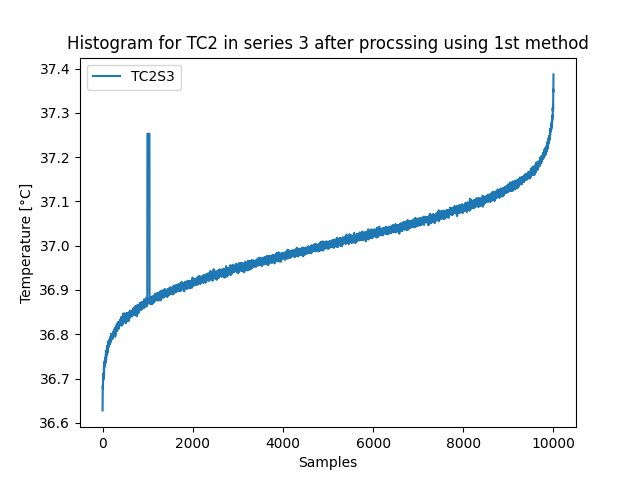
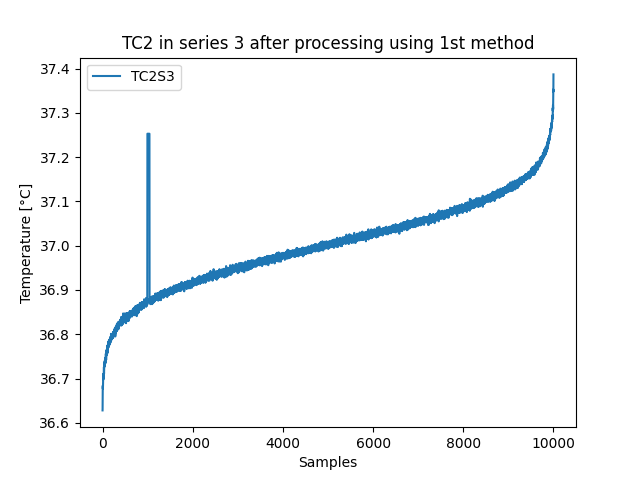
feat: add frequency analysis

Changed region(s): [[0.0938, 0.0625, 0.9375, 0.125]]

diff --git a/main.py b/main.py
@@ -1,5 +1,7 @@
+import numpy as np
 import pandas as pd
 import matplotlib.pyplot as plt
+from scipy.stats import norm
 
 # Load the CSV file into a DataFrame
 df = pd.read_csv('data/data.csv')  
@@ -25,6 +27,11 @@ plt.savefig('images/fig_1.png')
 # Replace values greater than 40 with the median for each column
 median_temp = df[df<40].median()
 df[df > 40] = median_temp.iloc[3]
+df[['TC2S3']].plot()
+plt.xlabel('Samples')
+plt.ylabel('Temperature [°C]')
+plt.title('TC2 in series 3 after processing using 1st method')
+plt.savefig('images/after_data_processing_1.png')
 ## 2nd method
 # Standard deviation
 std_TC2S3 = df[['TC2S3']].std().iloc[0]
@@ -35,7 +42,11 @@ for column in df.columns:
         if diff >= std_TC2S3 * 2:
             df.at[i, column] = df.at[i-1, column]
 
-
+df[['TC2S3']].plot()
+plt.xlabel('Samples')
+plt.ylabel('Temperature [°C]')
+plt.title('TC2 in series 3 after processing using 1st method')
+plt.savefig('images/after_data_processing_2.png')
 ### Fill NaN values
 # Count the number of NaN values in each column
 nan_count = df.isna().sum()
@@ -53,9 +64,9 @@ mode_values = df.mode().iloc[0]     # Wartość modalna (dominanta)
 median_values = df.median()         # Mediana
 skewness_values = df.skew()         # Skośność
 kurtosis_values = df.kurtosis()     # Szczytowość (kurtoza)
-std_dev_values = df.std()           # Odchylenie standardowe
 
-###
+### FREQUENCY ANALYSIS
+std_dev_values = df.std()           # standard deviation
 # Select columns for histograms
 columns_to_plot = [['TC1S1', 'TC2S1'], ['TC1S2', 'TC2S2'], ['TC1S3', 'TC2S3']]
 
@@ -72,3 +83,19 @@ for i, columns in enumerate(columns_to_plot):
 # Adjust layout
 plt.tight_layout()
 plt.savefig('images/histogramy_temperatur.png')
+
+# Fit normal distribution to the data
+mu, std = norm.fit(df[['TC1S1']])
+# Create a histogram of the data
+df[['TC1S1']].plot(kind='hist', bins=41, density=True, alpha=0.7, color='#1f77b4', edgecolor='black', linewidth=1.2)
+# Plot the fitted normal distribution
+xmin, xmax = plt.xlim()
+x = np.linspace(xmin, xmax, 100)
+p = norm.pdf(x, mu, std)
+plt.plot(x, p, color='#ff7f0e', linewidth=2)
+# Add labels and title
+plt.xlabel('Temperature [°C]')
+plt.ylabel('Density')
+plt.title('Histogram with Fitted Normal Distribution (TC1S1)')
+# Save the plot
+plt.savefig('images/fit.png')
